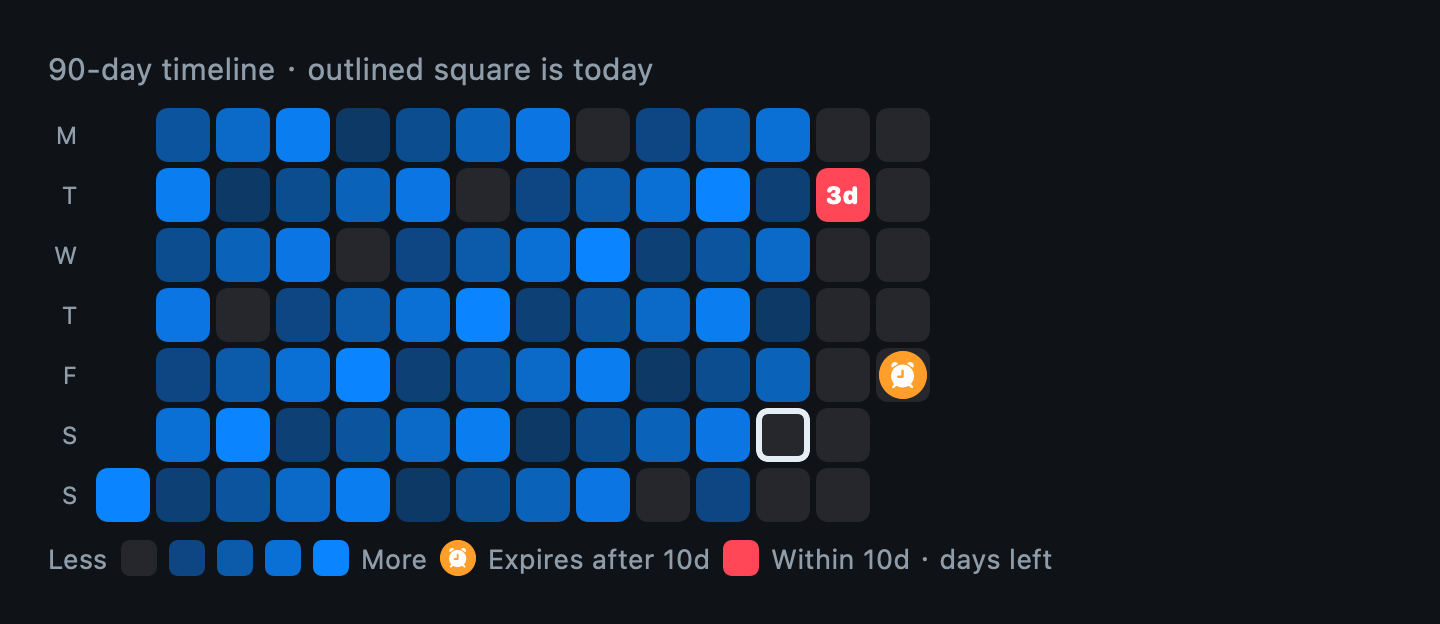
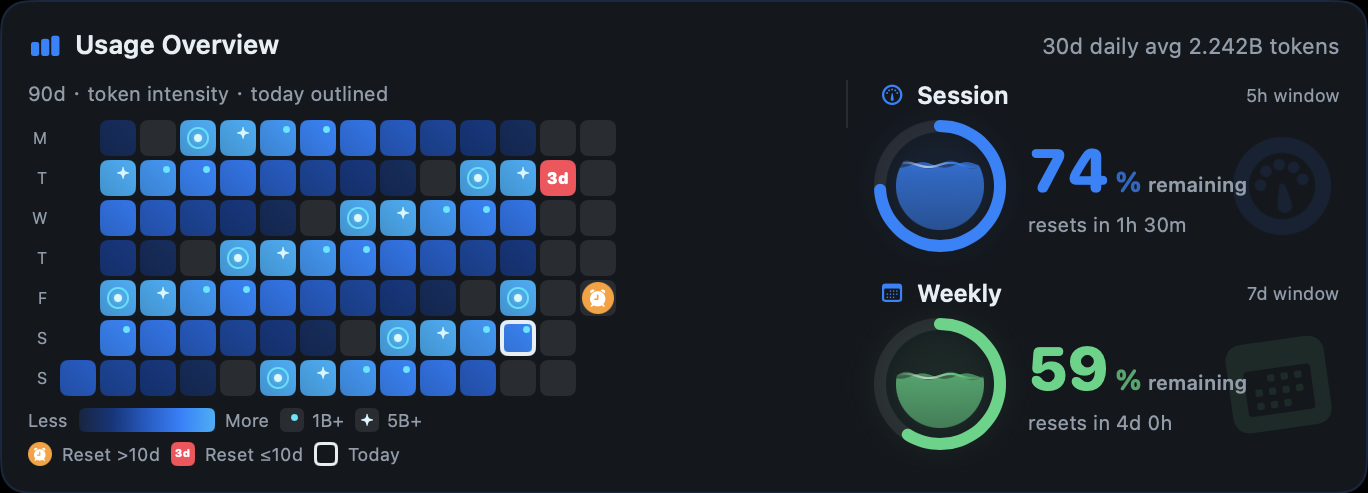
docs: update README interface screenshots

diff --git a/README.zh-CN.md b/README.zh-CN.md
@@ -8,7 +8,7 @@ aibar 是一款本地优先的 macOS AI 编程用量仪表盘。它把 Codex 会
 
 > 版本 0.1.9 · macOS 13 Ventura 或更高版本 · Apple Silicon
 
-![aibar 仪表盘](docs/images/dashboard-en.png)
+![aibar 仪表盘](docs/images/dashboard-zh.png)
 
 ## 功能一览
 
@@ -23,6 +23,12 @@ aibar 是一款本地优先的 macOS AI 编程用量仪表盘。它把 Codex 会
 - **中英文界面与分享卡片**：首次启动跟随 macOS 语言，可在仪表盘标题栏切换 English／中文，选择会保留到下次启动；分享卡片支持多种视觉样式。
 - **安全自动更新**：启动时及之后每 6 小时检查 GitHub Releases。下载包会经过 SHA-256 校验，且只有 Bundle ID 与 Developer ID 签名身份一致时才会自动替换。
 - **本地优先**：会话与活动数据只在 Mac 本机读取和聚合，aibar 不上传提示词、响应内容或文件内容。显示金额为 API 等价估算，并非账单。
+
+## 刘海配额与运行胶囊
+
+![刘海左右配额与运行胶囊](docs/images/notch-capsule.png)
+
+两个紧凑的数字翼贴在物理刘海左右：左侧显示每周剩余配额，右侧显示 5 小时会话剩余配额。Codex 工作时，运行胶囊会出现在刘海下方，实时显示状态、项目、会话 token 和耗时；旗帜用于区分连续运行的 Goal 与普通单轮对话。悬停任一配额翼会暂时展开活动视图，点击胶囊可回到对应的 Codex 对话。
 
 ## 用量热图
 

diff --git a/README.md b/README.md
@@ -24,6 +24,12 @@ A local-first macOS dashboard for AI coding usage. aibar brings Codex session re
 - **Safe automatic updates** — aibar checks GitHub Releases at launch and every six hours. Downloads are SHA-256 verified, and automatic replacement requires the same bundle ID and Developer ID signing identity.
 - **Local first** — Session and activity data are read and aggregated on your Mac. aibar does not upload prompts, responses, or file contents. Displayed costs are API-equivalent estimates, not invoices.
 
+## Notch controls and activity capsule
+
+![notch quota controls and activity capsule](docs/images/notch-capsule.png)
+
+The two compact wings sit directly beside the physical notch: the left number is the weekly quota remaining, and the right number is the 5-hour session quota remaining. The capsule appears below the notch while Codex is working and shows live status, project, session tokens, and elapsed time. A flag distinguishes a continuously running Goal from an ordinary turn. Hovering either quota wing temporarily expands the activity view; clicking the capsule returns to that Codex conversation.
+
 ## Usage heatmap
 
 ![usage heatmap](docs/images/heatmap-en.png)
